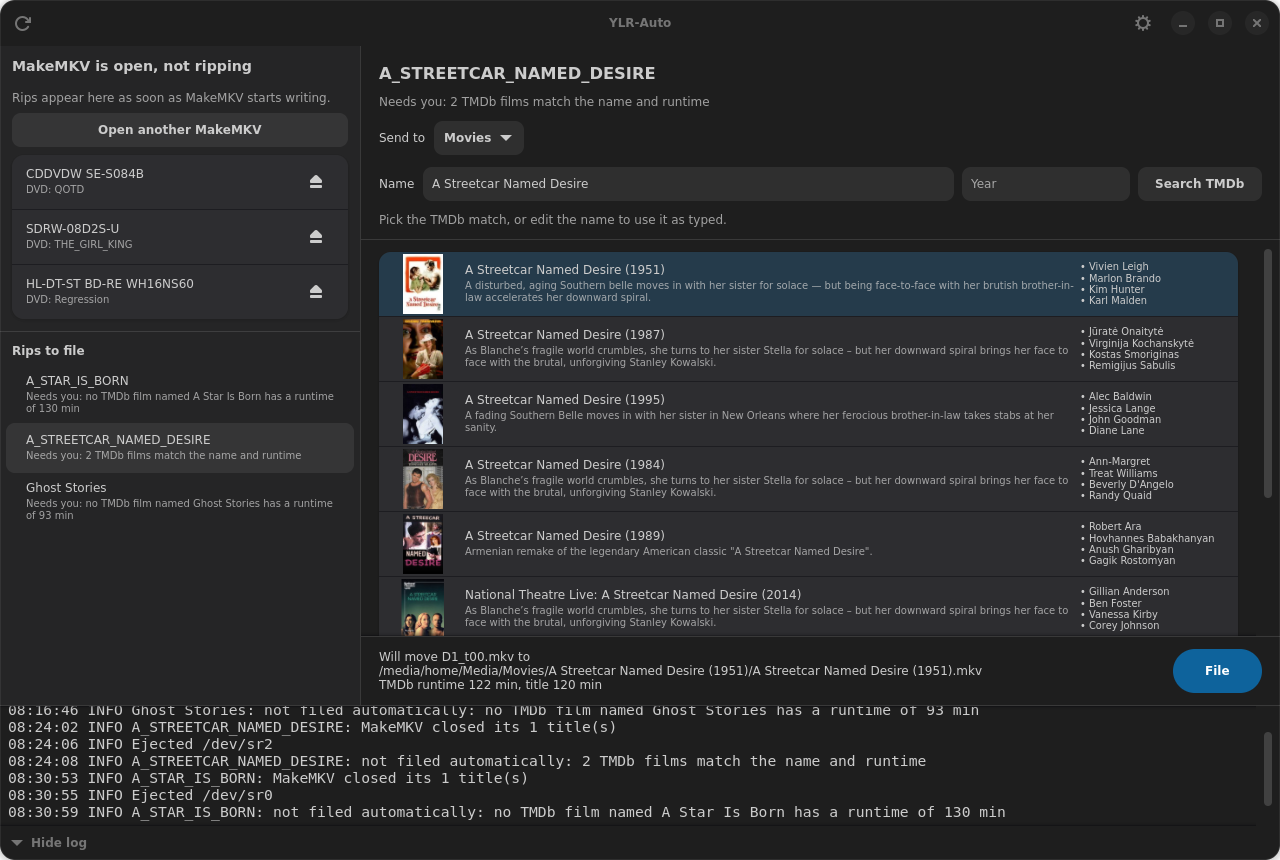
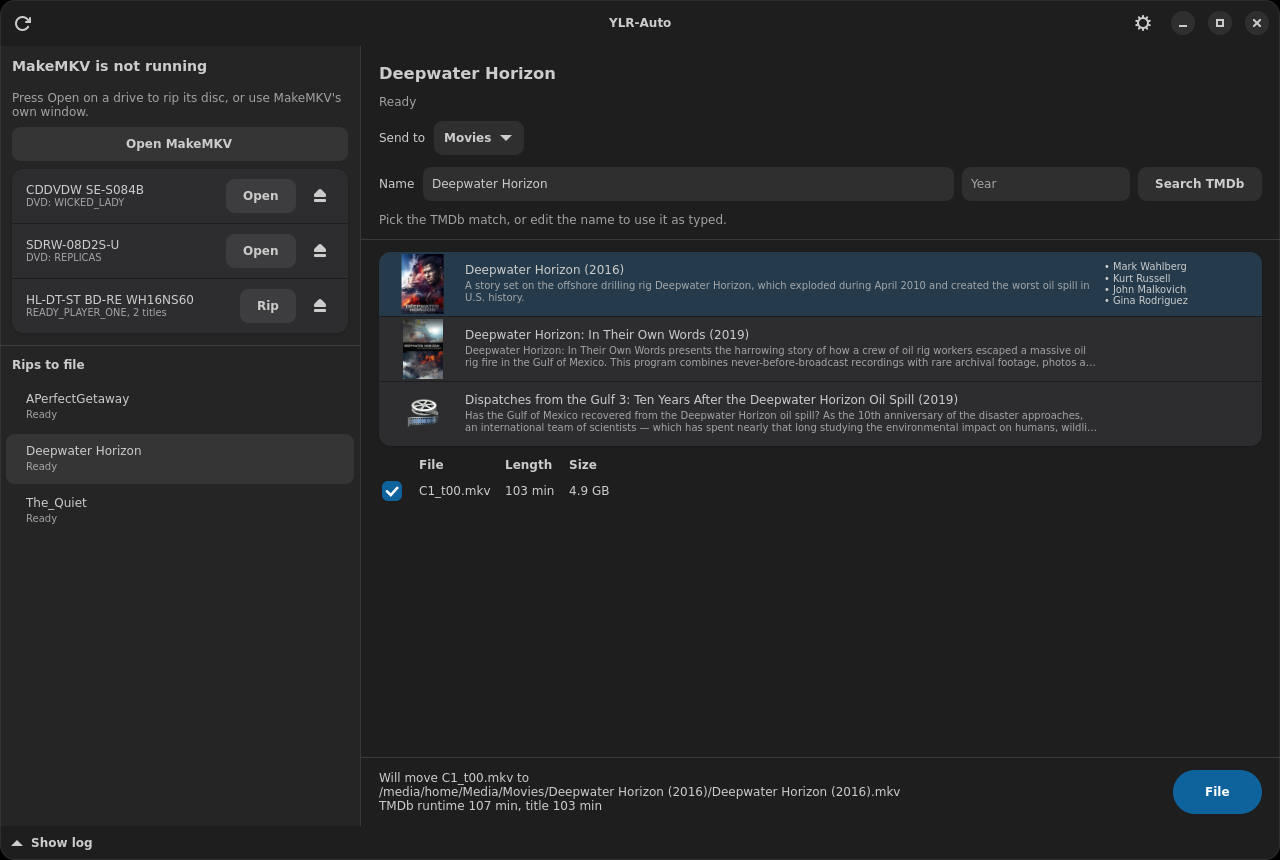
Release YLR-Auto 2.0.0
YLR-Auto now rips discs as well as watching MakeMKV, so the README, the store
text and the desktop entry say so, and the screenshots show the drive page.
The AppImage catalog's warning clears once a release publishes the .zsync
file. The poster screenshot still shows the earlier drive rows, because it
needs the pointer held over a poster.

diff --git a/crates/ylr-auto/src/config.rs b/crates/ylr-auto/src/config.rs
@@ -278,7 +278,7 @@ pub fn desktop_entry_text(launch: &Launch, arguments: &[&str]) -> String {
         "[Desktop Entry]\n\
          Type=Application\n\
          Name={APP_NAME}\n\
-         Comment=Watch MakeMKV and file finished rips into Jellyfin\n\
+         Comment=Rip discs with MakeMKV and file them into Jellyfin\n\
          Exec={}\n\
          Icon={APP_ID}\n\
          Categories=AudioVideo;Video;\n\

diff --git a/README.md b/README.md
@@ -6,16 +6,16 @@
 [![Built with Rust](https://img.shields.io/badge/built%20with-Rust-orange)](https://www.rust-lang.org/)
 [![Platform: Linux](https://img.shields.io/badge/platform-Linux-blue)](#install)
 
-A desktop companion for [MakeMKV](https://www.makemkv.com/) on Linux. It shows
-what MakeMKV and your optical drives are doing, then files finished rips into
-[Jellyfin](https://jellyfin.org/) libraries, with names and posters from
-[TMDb](https://www.themoviedb.org/).
+A desktop app for ripping discs with [MakeMKV](https://www.makemkv.com/) on Linux. It
+rips from each optical drive, or watches rips you start in MakeMKV's own window, then
+files finished rips into [Jellyfin](https://jellyfin.org/) libraries, with names and
+posters from [TMDb](https://www.themoviedb.org/).
 
-![YLR-Auto with three finished rips waiting, showing TMDb matches with posters and main actors for one of them](docs/screenshot.png)
+![An opened disc in YLR-Auto, with TMDb matches, posters and main actors above the disc's titles to tick](docs/screenshot-drive.png)
 
-YLR-Auto watches MakeMKV from the outside and does not control it. MakeMKV is a
-separate program that you install yourself. This project is not affiliated with
-MakeMKV, Jellyfin or TMDb.
+YLR-Auto rips by running `makemkvcon`, the command-line program included with MakeMKV.
+MakeMKV is a separate program that you install yourself. This project is not affiliated
+with MakeMKV, Jellyfin or TMDb.
 
 ## Install
 
@@ -23,17 +23,19 @@ Download a package from the [releases page](https://github.com/cpntodd/YLR-Auto/
 
 **Debian 13, Ubuntu 24.04 or newer (.deb)**
 
-    sudo apt install ./ylr-auto_1.1.1_amd64.deb
+    sudo apt install ./ylr-auto_2.0.0_amd64.deb
 
 Ubuntu 24.04 meets the package's version requirements, but has not been tested.
 
 **Other x86-64 distributions (AppImage)**
 
-    chmod +x YLR-Auto-1.1.1-x86_64.AppImage
-    ./YLR-Auto-1.1.1-x86_64.AppImage
+    chmod +x YLR-Auto-2.0.0-x86_64.AppImage
+    ./YLR-Auto-2.0.0-x86_64.AppImage
 
 The AppImage bundles GTK, libadwaita and its own C library, so it needs nothing else
-installed. It has been tested only on Debian 13, and uses software rendering.
+installed. It has been tested only on Debian 13, and uses software rendering. From 2.0.0
+it carries update information, so
+[AppImageUpdate](https://github.com/AppImageCommunity/AppImageUpdate) can update it.
 
 **From source**
 
@@ -45,43 +47,81 @@ Install MakeMKV from its
 
 ## Set up
 
-1. In MakeMKV, open **Preferences, General, Default destination** and choose
-   **Semi-Auto**, so each disc rips into its own folder. A banner in YLR-Auto
-   offers to use MakeMKV's folder if the two differ.
-2. In YLR-Auto, open the gear menu and add a TMDb API key (a free v3 key or v4 read
-   access token from themoviedb.org), then set your library folders.
+1. In YLR-Auto, open the gear menu and add a TMDb API key (a free v3 key or v4 read
+   access token from themoviedb.org), then set your rip folder and library folders.
+2. If you also rip from MakeMKV's own window, open its **Preferences, General, Default
+   destination** and choose **Semi-Auto**, so each disc rips into its own folder. A
+   banner in YLR-Auto offers to use MakeMKV's folder if the two differ.
 
 The key and settings are saved in `~/.config/littlerippa-autosort/config.json`,
 readable by you only. The `TMDB_API_KEY` environment variable overrides the saved
 key. A library folder that does not exist is created only when its parent exists,
 so nothing is written while a network share is unmounted.
 
-## Monitoring
+## Ripping a disc
 
-The left column shows whether MakeMKV is open or ripping. Each rip has its own
-title, data written, speed and time elapsed. Each drive is listed with its disc
-and an Eject button. **Open MakeMKV** is always available, because MakeMKV's
-single-drive mode runs one instance per drive.
+Each drive in the left column shows its disc, with **Open** and Eject buttons.
 
-MakeMKV offers no progress interface to other programs, so this is read from
-`/proc` and udev. MakeMKV only shows a percentage in its window title while
-minimised, so the percentage and time left appear only then, and only on X11.
+1. **Open** scans the disc and shows its page on the right. Clicking a drive also shows
+   its page, and the right pane only ever changes when you click.
+2. **Find the film or series.** The label is searched on TMDb, with posters and main
+   actors beside each result. Click the right one, or edit the name or year and search
+   again. Choosing **Series** searches for shows instead.
+3. **Tick the titles to rip.** The main title starts ticked if it is at least twice as
+   long as every other title. Clicking a film ticks the title with its TMDb runtime, if
+   one is that long. Expand a title to see its tracks.
+
+   PAL discs usually run about 4% short of the runtime TMDb lists, so no title may match.
+   The ticks then stay as they were, and such a rip waits for you instead of being filed
+   automatically.
+4. **Rip Selected**, or **Rip** on the drive's row. Each rip has its own progress bar,
+   percentage and time left, and all your drives can rip at once.
+
+Finished rips go to a new folder named after the disc, in the rip folder, then on to
+[automatic filing](#automatic-filing) or **Rips to file**. **Eject the disc when a rip
+finishes** in Settings ejects it, which a dialog in MakeMKV's window would prevent.
+
+**Stop** asks first, then removes the unfinished title. Titles already finished stay and
+wait for you. If a rip fails, the row gives the reason and **Retry**, and the disc stays
+in the drive. Quitting while a drive is busy asks first, then stops it.
+
+Audio and subtitle tracks follow the default selection rule in **Preferences, Advanced**
+in MakeMKV's window, because no `makemkvcon` option for choosing tracks in one rip was
+found. Rip from MakeMKV's window if you need to choose them.
+
+## Using MakeMKV's window
+
+**Open MakeMKV** is always available, for discs that need it, and YLR-Auto still watches
+what it does. The left column shows each rip's title, data written, speed and time
+elapsed. **Open** is disabled on a drive a MakeMKV window holds, until you close that
+disc or window. MakeMKV's single-drive mode runs one instance per drive.
+
+MakeMKV offers no progress interface to other programs, so this is read from `/proc` and
+udev. MakeMKV only shows a percentage in its window title while minimised, so for these
+rips the percentage and time left appear only then, and only on X11.
+
+## Running in the tray
 
 The first start adds YLR-Auto to login startup, which you can turn off in Settings.
-Closing the window keeps it monitoring from the tray; use the tray menu to quit.
-While ripping, the tray icon's tooltip shows each rip's percentage when MakeMKV gives one.
-Without a tray, closing the window quits. Cinnamon shows the icon through
+Closing the window keeps it running from the tray, rips included; use the tray menu to
+quit. While ripping, the tray icon's tooltip shows each rip's percentage when one is
+known. Without a tray, closing the window quits. Cinnamon shows the icon through
 `xapp-sn-watcher`, and GNOME needs an AppIndicator extension.
 
 ## Automatic filing
 
-When MakeMKV finishes a rip that YLR-Auto saw being written, a film is filed with
-no action from you only if all of these hold:
+When a rip that YLR-Auto ran or saw being written finishes, a film is filed with no
+action from you only if all of these hold:
 
 - the disc label does not look like a series;
 - no other title is at least 80% as long as the longest title;
 - exactly one TMDb film has the label's exact name and the rip's runtime;
 - the library has no copy of that film in any recognised form.
+
+If you clicked a film on the disc's page before ripping, that film replaces the search
+by name and the label is not considered, but its runtime must still match the rip and the
+other checks still apply. A rip you picked as a series always waits for you, and the
+filing page opens with your pick already chosen.
 
 Anything else stays listed as **Needs you**, with the reason, and a notification
 opens it. Rips already in the folder are never filed automatically. MakeMKV writes a
@@ -98,6 +138,8 @@ The list refreshes every 30 seconds and whenever a rip starts or finishes, and s
 every folder under the rip folder that holds `.mkv` files, including hand-made
 layouts such as `Angel/S1/D3`. A rip seen finishing is **Ready** at once. Any other
 folder is **Ready** once no file is open and nothing has changed for 2 minutes.
+
+![A rip selected for filing, with TMDb matches, posters and main actors](docs/screenshot.png)
 
 Select a rip, then:
 
@@ -187,9 +229,28 @@ Click the logo to play it again, or use the button at the top left to mute it.
 
 ## Test results
 
-Results for 1.1.0, the first Rust version, on Debian 13 with an AMD Ryzen 5 2600.
+### Ripping through `makemkvcon`, 2.0.0
+
+Checked on Debian 13 with MakeMKV 2.0.0, a Blu-ray drive and two DVD drives, using three
+DVDs.
+
+| Check | Result |
+|---|---|
+| Scanning three discs at once | worked, in 10, 19 and 79 seconds |
+| Ripping from three drives at once | worked; two full films in about 13 minutes each |
+| Eject straight after each rip | worked on all three |
+| Runtime of each rip against the scan | within 7 seconds |
+| Stopping a rip | `makemkvcon` exited in 3 seconds, leaving a file with no runtime |
+| Open, choose titles, rip and stop in the window, by hand | passes |
+| Unit and integration tests | 149 of 149 pass |
+
+Not tested: a real read error or an expired MakeMKV key, whose messages come from MakeMKV
+itself, a Blu-ray disc or a series disc through **Open**, and `makemkvcon` on another
+desktop or distribution.
 
 ### Rust against the last Python version
+
+Results for 1.1.0, the first Rust version, on Debian 13 with an AMD Ryzen 5 2600.
 
 | Measure | Python 1.0.4 | Rust 1.1.0 | Change |
 |---|---|---|---|
@@ -207,7 +268,7 @@ own session bus and the same dark theme in both, while three real MakeMKV rips l
 machine. Times on a desktop
 will differ, but both versions were measured the same way.
 
-### Behaviour
+#### Behaviour
 
 | Check | Result |
 |---|---|
@@ -227,13 +288,12 @@ reads it as an unknown runtime. Python's crash cases were left out of the count 
 The Python version and its comparison tools were removed in 1.1.0, so these two tables can
 only be reproduced from the commit before that removal.
 
-### Not tested
+#### Not tested
 
 - The AppImage on the oldest supported Ubuntu LTS, which the AppImage catalog's own test
   checks. It carries its own C library for this reason.
 - The `.deb` on Ubuntu 24.04, whose versions meet its dependencies.
-- The tray icon on desktops other than Cinnamon, and a real TMDb search with a valid key.
-  The HTTPS client was tested against TMDb with an invalid key.
+- The tray icon on desktops other than Cinnamon.
 
 ## Build and test
 

diff --git a/CHANGELOG.md b/CHANGELOG.md
@@ -1,5 +1,20 @@
 # Changelog
 
+## 2.0.0 (2026-11-06)
+
+- Rip from each drive without opening MakeMKV's window. **Open** scans a disc and shows
+  its page, where you look it up on TMDb and tick titles; a row's **Rip** then uses those
+  ticks. YLR-Auto runs `makemkvcon`, which is part of MakeMKV, so nothing new is needed.
+- Eject after a rip without a MakeMKV dialog holding the drive, using the existing
+  setting. MakeMKV's window and the monitoring of rips started there both stay.
+- Show percentage and time left for these rips at all times, on any display server.
+- Tick the title with the runtime TMDb lists for the match, and carry a clicked match to
+  filing. A picked film files itself when its runtime agrees and automatic filing is on.
+- Stop a rip with a confirmation, removing the unfinished title. Quitting warns first.
+- Disable ripping on a drive a MakeMKV window holds, and say why.
+- Embed update information in the AppImage and publish a `.zsync` file beside it, so
+  AppImageUpdate can update it.
+
 ## 1.1.1 (2026-11-06)
 
 - Say that MakeMKV is needed, and how to get it, instead of showing "not installed". The

diff --git a/CONTRIBUTING.md b/CONTRIBUTING.md
@@ -7,7 +7,7 @@ moved or deleted, open an issue first, because those safeguards are deliberate.
 
 | File | Purpose |
 |---|---|
-| `crates/ylr-core` | Filing rules, runtime reading, the TMDb client, and reading MakeMKV's state from `/proc`, udev and its window title. No GUI code. |
+| `crates/ylr-core` | Filing rules, runtime reading, the TMDb client, running `makemkvcon`, and reading MakeMKV's state from `/proc`, udev and its window title. No GUI code. |
 | `crates/ylr-auto` | The GTK 4 window and the tray icon. Disk and network work runs on background threads. |
 | `packaging/` | Desktop entry, icon, metadata and package build scripts. |
 

diff --git a/SECURITY.md b/SECURITY.md
@@ -13,5 +13,7 @@ rather than a public issue. Only the latest release is supported.
 - It moves and, when you file a duplicate by hand, deletes video files in the folders
   you configure.
 - It reads only the destination settings from MakeMKV's `settings.conf`, never the
-  licence key.
+  licence key. It runs `makemkvcon`, which reads that file itself.
+- It creates a folder in the rip folder for each rip, and deletes the unfinished title
+  when you stop one.
 - It writes desktop entries to your application menu and login startup folders.
